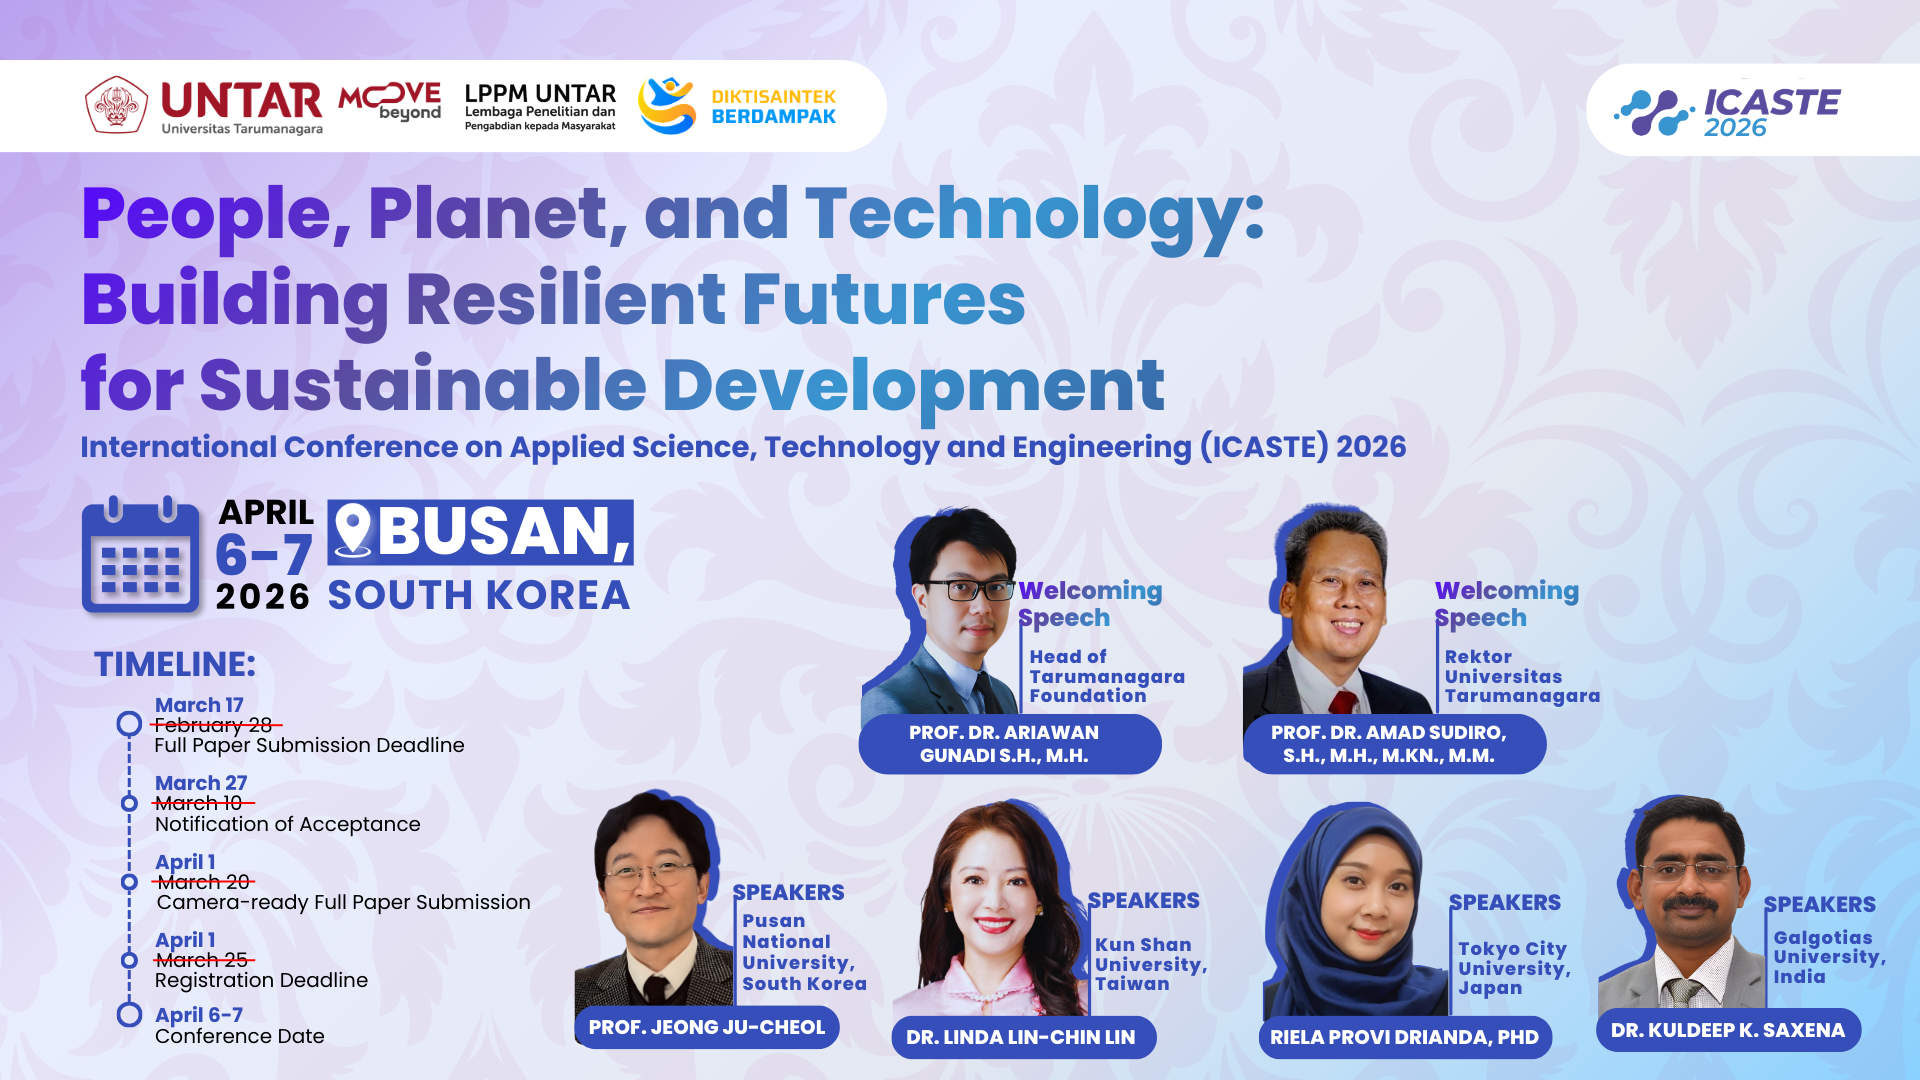
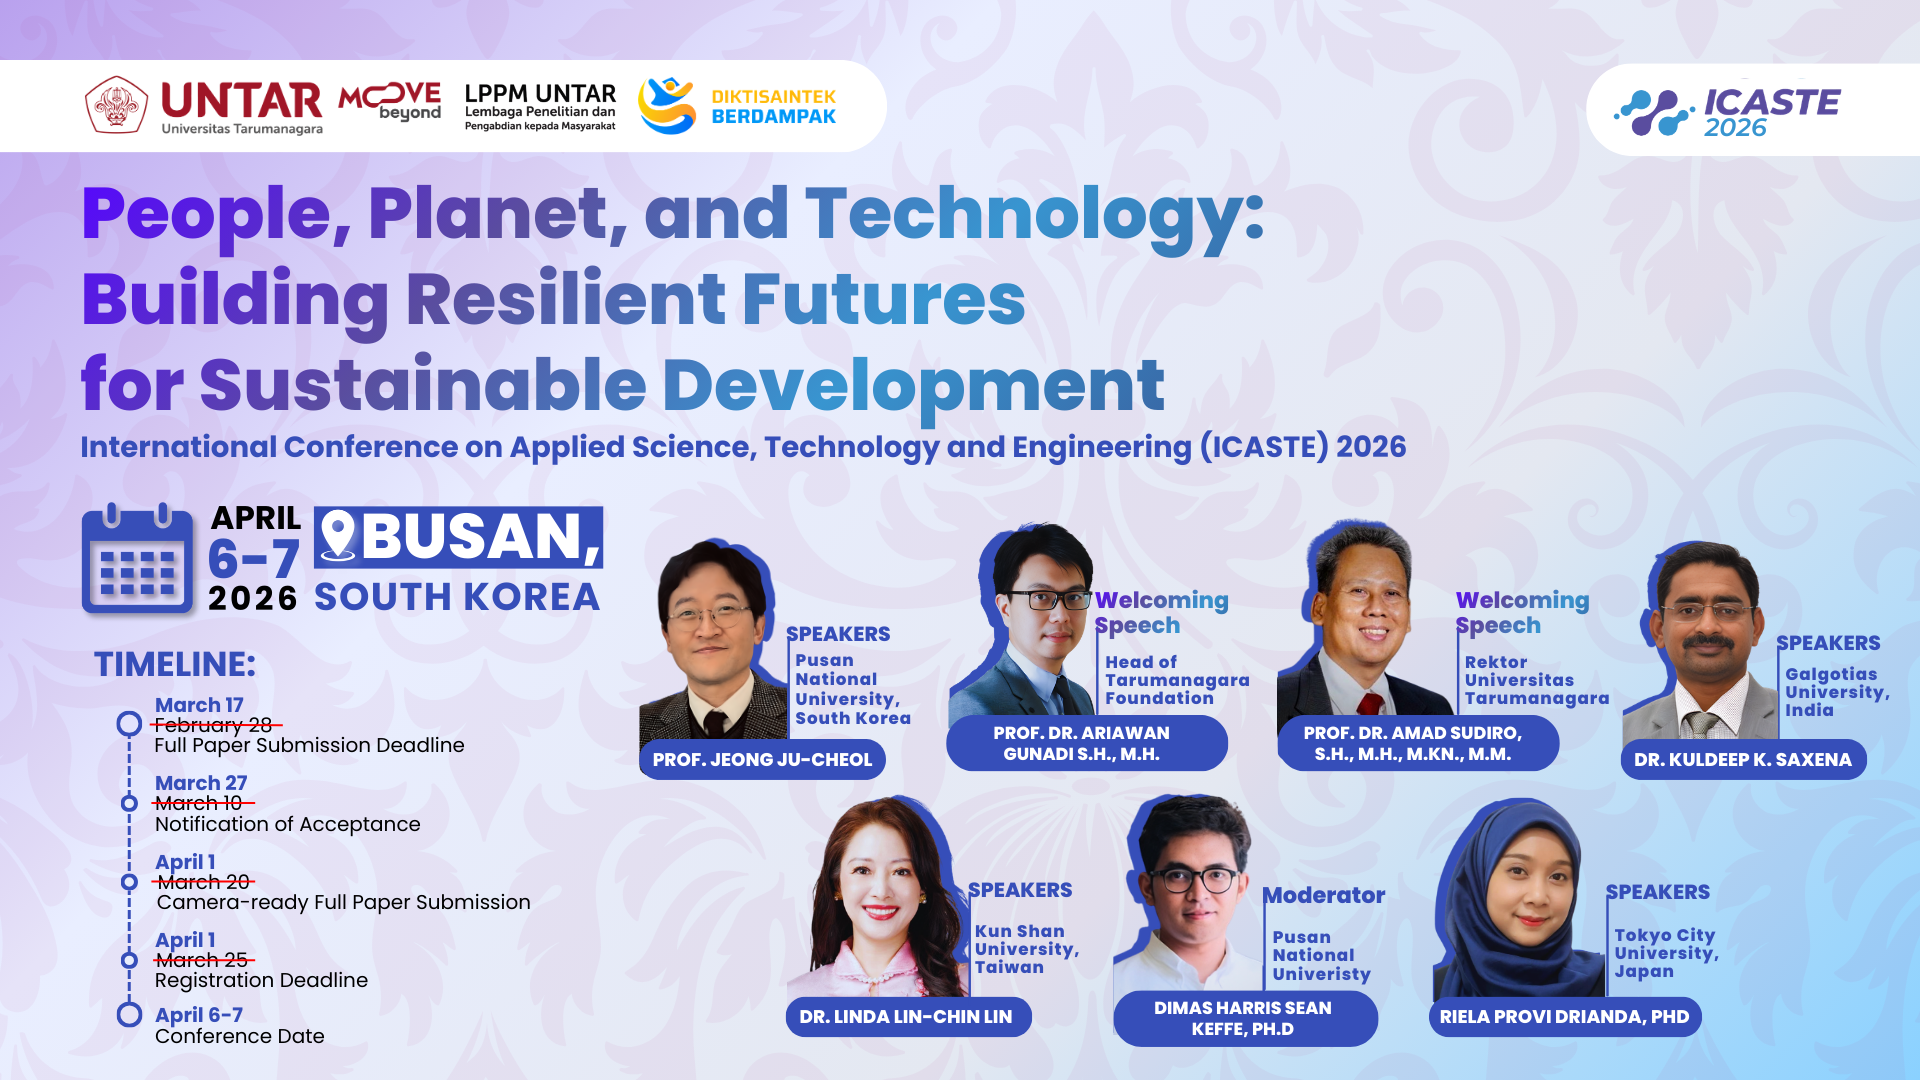
add speaker & co host

Changed region(s): [[0.0312, 0.4583, 1.0, 1.0]]

diff --git a/callforpaper.html b/callforpaper.html
@@ -164,6 +164,16 @@
         </p>
         <img src="img/kunshan.png" alt="">
     </div>
+
+    <div class="partner-item">
+        <h3>CO-HOST BY</h3>
+        <p>
+            <a href="https://www.pusan.ac.kr/eng/Main.do" target="_blank">
+            Pusan National University</a>
+        </p>
+        <img src="img/pusan.jpeg" alt="">
+    </div>
+</section>
 </section>
 
 <footer>

diff --git a/index.html b/index.html
@@ -86,6 +86,16 @@
         </p>
         <img src="img/kunshan.png" alt="">
     </div>
+
+    <div class="partner-item">
+        <h3>CO-HOST BY</h3>
+        <p>
+            <a href="https://www.pusan.ac.kr/eng/Main.do" target="_blank">
+            Pusan National University</a>
+        </p>
+        <img src="img/pusan.jpeg" alt="">
+    </div>
+</section>
 </section>
 </div>
 
